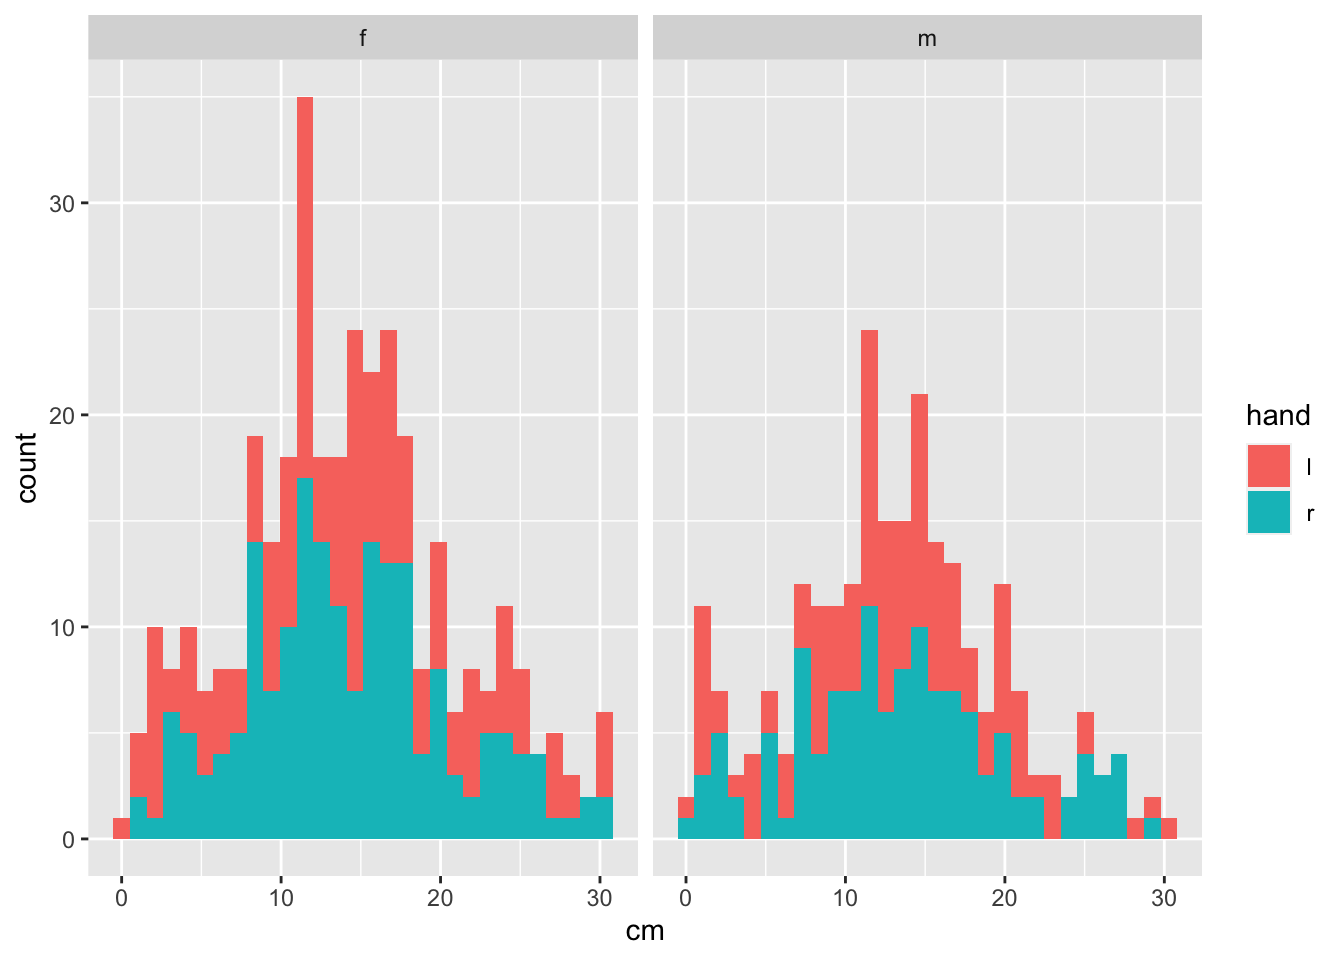
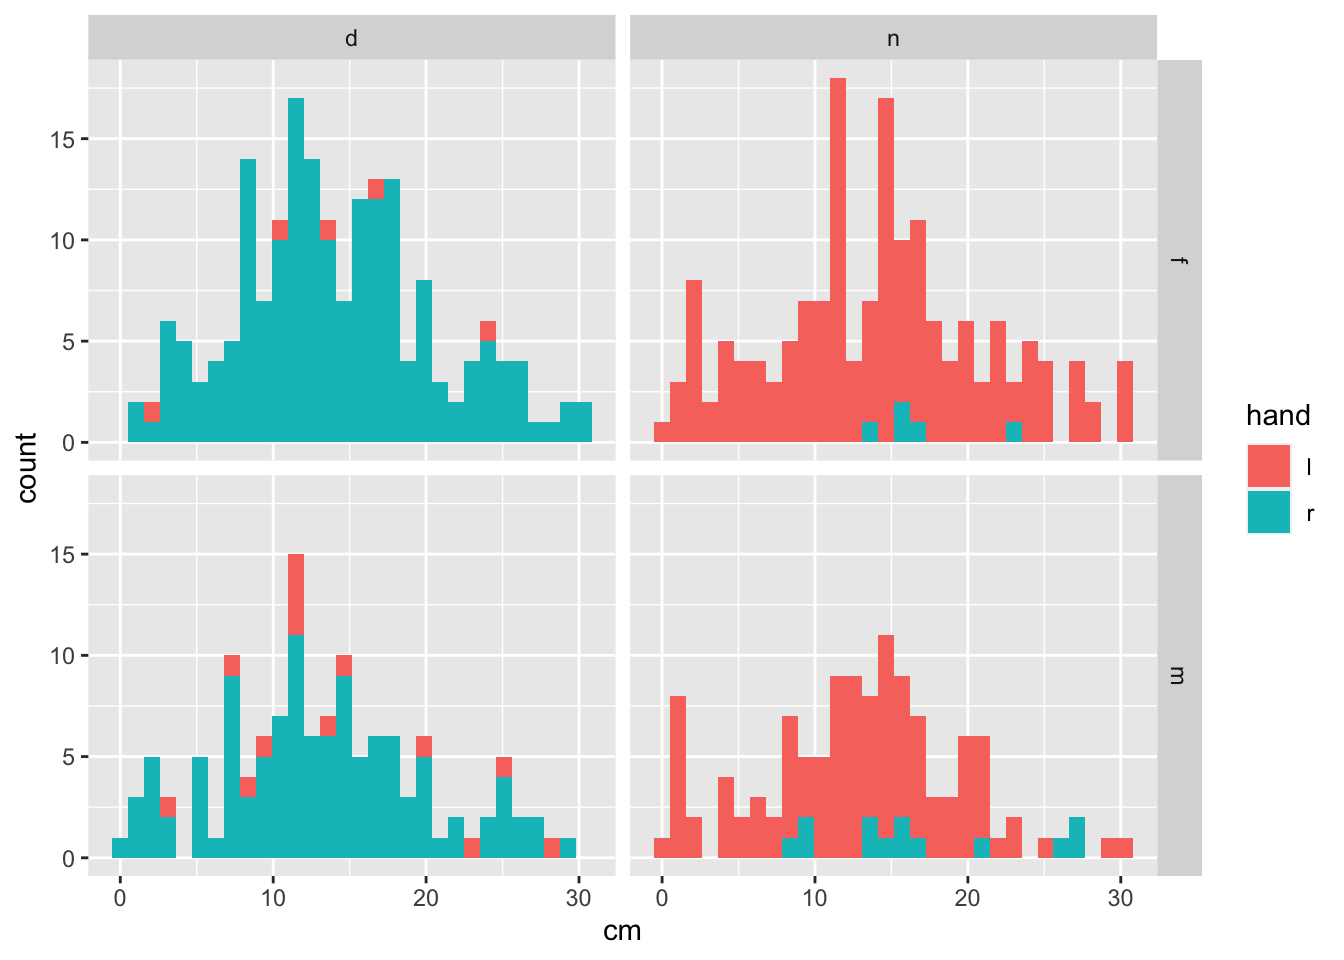
Add additional figures.

diff --git a/index.html b/index.html
@@ -226,12 +226,11 @@ Caused by warning:
 <section id="visualization" class="level2">
 <h2 class="anchored" data-anchor-id="visualization">Visualization</h2>
 <div class="cell">
-<div class="sourceCode cell-code" id="cb15"><pre class="sourceCode r code-with-copy"><code class="sourceCode r"><span id="cb15-1"><a href="#cb15-1" aria-hidden="true" tabindex="-1"></a><span class="fu">library</span>(ggplot2)</span>
-<span id="cb15-2"><a href="#cb15-2" aria-hidden="true" tabindex="-1"></a>rt <span class="sc">|&gt;</span></span>
-<span id="cb15-3"><a href="#cb15-3" aria-hidden="true" tabindex="-1"></a>  <span class="fu">ggplot</span>() <span class="sc">+</span></span>
-<span id="cb15-4"><a href="#cb15-4" aria-hidden="true" tabindex="-1"></a>  <span class="fu">aes</span>(<span class="at">x =</span> cm, <span class="at">fill =</span> hand) <span class="sc">+</span></span>
-<span id="cb15-5"><a href="#cb15-5" aria-hidden="true" tabindex="-1"></a>  <span class="fu">geom_histogram</span>() <span class="sc">+</span></span>
-<span id="cb15-6"><a href="#cb15-6" aria-hidden="true" tabindex="-1"></a>  <span class="fu">facet_grid</span>(<span class="at">cols =</span> <span class="fu">vars</span>(gender))</span></code><button title="Copy to Clipboard" class="code-copy-button"><i class="bi"></i></button></pre></div>
+<div class="sourceCode cell-code" id="cb15"><pre class="sourceCode r code-with-copy"><code class="sourceCode r"><span id="cb15-1"><a href="#cb15-1" aria-hidden="true" tabindex="-1"></a>rt <span class="sc">|&gt;</span></span>
+<span id="cb15-2"><a href="#cb15-2" aria-hidden="true" tabindex="-1"></a>  <span class="fu">ggplot</span>() <span class="sc">+</span></span>
+<span id="cb15-3"><a href="#cb15-3" aria-hidden="true" tabindex="-1"></a>  <span class="fu">aes</span>(<span class="at">x =</span> cm, <span class="at">fill =</span> hand) <span class="sc">+</span></span>
+<span id="cb15-4"><a href="#cb15-4" aria-hidden="true" tabindex="-1"></a>  <span class="fu">geom_histogram</span>() <span class="sc">+</span></span>
+<span id="cb15-5"><a href="#cb15-5" aria-hidden="true" tabindex="-1"></a>  <span class="fu">facet_grid</span>(<span class="at">rows =</span> <span class="fu">vars</span>(gender), <span class="at">cols =</span> <span class="fu">vars</span>(dom_nondom))</span></code><button title="Copy to Clipboard" class="code-copy-button"><i class="bi"></i></button></pre></div>
 <div class="cell-output cell-output-stderr">
 <pre><code>`stat_bin()` using `bins = 30`. Pick better value with `binwidth`.</code></pre>
 </div>
@@ -240,6 +239,48 @@ Caused by warning:
 </div>
 <div class="cell-output-display">
 <p><img src="index_files/figure-html/unnamed-chunk-5-1.png" class="img-fluid" width="672"></p>
+</div>
+</div>
+<div class="cell">
+<div class="sourceCode cell-code" id="cb18"><pre class="sourceCode r code-with-copy"><code class="sourceCode r"><span id="cb18-1"><a href="#cb18-1" aria-hidden="true" tabindex="-1"></a>rt <span class="sc">|&gt;</span></span>
+<span id="cb18-2"><a href="#cb18-2" aria-hidden="true" tabindex="-1"></a>  <span class="fu">ggplot</span>() <span class="sc">+</span></span>
+<span id="cb18-3"><a href="#cb18-3" aria-hidden="true" tabindex="-1"></a>  <span class="fu">aes</span>(<span class="at">x =</span> dom_nondom, <span class="at">y =</span> cm, <span class="at">fill =</span> hand) <span class="sc">+</span></span>
+<span id="cb18-4"><a href="#cb18-4" aria-hidden="true" tabindex="-1"></a>  <span class="fu">geom_violin</span>() <span class="sc">+</span></span>
+<span id="cb18-5"><a href="#cb18-5" aria-hidden="true" tabindex="-1"></a>  <span class="fu">facet_grid</span>(<span class="at">rows =</span> <span class="fu">vars</span>(gender))</span></code><button title="Copy to Clipboard" class="code-copy-button"><i class="bi"></i></button></pre></div>
+<div class="cell-output cell-output-stderr">
+<pre><code>Warning: Removed 21 rows containing non-finite values (`stat_ydensity()`).</code></pre>
+</div>
+<div class="cell-output-display">
+<p><img src="index_files/figure-html/unnamed-chunk-6-1.png" class="img-fluid" width="672"></p>
+</div>
+</div>
+<div class="cell">
+<div class="sourceCode cell-code" id="cb20"><pre class="sourceCode r code-with-copy"><code class="sourceCode r"><span id="cb20-1"><a href="#cb20-1" aria-hidden="true" tabindex="-1"></a>rt <span class="sc">|&gt;</span></span>
+<span id="cb20-2"><a href="#cb20-2" aria-hidden="true" tabindex="-1"></a>  <span class="fu">ggplot</span>() <span class="sc">+</span></span>
+<span id="cb20-3"><a href="#cb20-3" aria-hidden="true" tabindex="-1"></a>  <span class="fu">aes</span>(<span class="at">x =</span> dom_nondom, <span class="at">y =</span> cm, <span class="at">fill =</span> hand) <span class="sc">+</span></span>
+<span id="cb20-4"><a href="#cb20-4" aria-hidden="true" tabindex="-1"></a>  <span class="fu">geom_boxplot</span>() <span class="sc">+</span></span>
+<span id="cb20-5"><a href="#cb20-5" aria-hidden="true" tabindex="-1"></a>  <span class="fu">facet_grid</span>(<span class="at">rows =</span> <span class="fu">vars</span>(gender))</span></code><button title="Copy to Clipboard" class="code-copy-button"><i class="bi"></i></button></pre></div>
+<div class="cell-output cell-output-stderr">
+<pre><code>Warning: Removed 21 rows containing non-finite values (`stat_boxplot()`).</code></pre>
+</div>
+<div class="cell-output-display">
+<p><img src="index_files/figure-html/unnamed-chunk-7-1.png" class="img-fluid" width="672"></p>
+</div>
+</div>
+<div class="cell">
+<div class="sourceCode cell-code" id="cb22"><pre class="sourceCode r code-with-copy"><code class="sourceCode r"><span id="cb22-1"><a href="#cb22-1" aria-hidden="true" tabindex="-1"></a>rt <span class="sc">|&gt;</span></span>
+<span id="cb22-2"><a href="#cb22-2" aria-hidden="true" tabindex="-1"></a>  dplyr<span class="sc">::</span><span class="fu">mutate</span>(<span class="at">student =</span> <span class="fu">paste0</span>(class, <span class="st">"-"</span>, part_id)) <span class="sc">|&gt;</span></span>
+<span id="cb22-3"><a href="#cb22-3" aria-hidden="true" tabindex="-1"></a>  <span class="fu">ggplot</span>() <span class="sc">+</span></span>
+<span id="cb22-4"><a href="#cb22-4" aria-hidden="true" tabindex="-1"></a>  <span class="fu">aes</span>(<span class="at">x =</span> trial, <span class="at">y =</span> cm, <span class="at">group =</span> student, <span class="at">color =</span> <span class="fu">as.factor</span>(student)) <span class="sc">+</span></span>
+<span id="cb22-5"><a href="#cb22-5" aria-hidden="true" tabindex="-1"></a>  <span class="fu">geom_line</span>() <span class="sc">+</span></span>
+<span id="cb22-6"><a href="#cb22-6" aria-hidden="true" tabindex="-1"></a>  <span class="fu">facet_grid</span>(<span class="at">rows =</span> <span class="fu">vars</span>(gender)) <span class="sc">+</span></span>
+<span id="cb22-7"><a href="#cb22-7" aria-hidden="true" tabindex="-1"></a>  <span class="fu">scale_x_continuous</span>(<span class="at">breaks =</span> <span class="fu">c</span>(<span class="dv">1</span><span class="sc">:</span><span class="dv">8</span>)) <span class="sc">+</span></span>
+<span id="cb22-8"><a href="#cb22-8" aria-hidden="true" tabindex="-1"></a>  <span class="fu">theme</span>(<span class="at">legend.position =</span> <span class="st">"none"</span>)</span></code><button title="Copy to Clipboard" class="code-copy-button"><i class="bi"></i></button></pre></div>
+<div class="cell-output cell-output-stderr">
+<pre><code>Warning: Removed 6 rows containing missing values (`geom_line()`).</code></pre>
+</div>
+<div class="cell-output-display">
+<p><img src="index_files/figure-html/unnamed-chunk-8-1.png" class="img-fluid" width="672"></p>
 </div>
 </div>
 </section>
